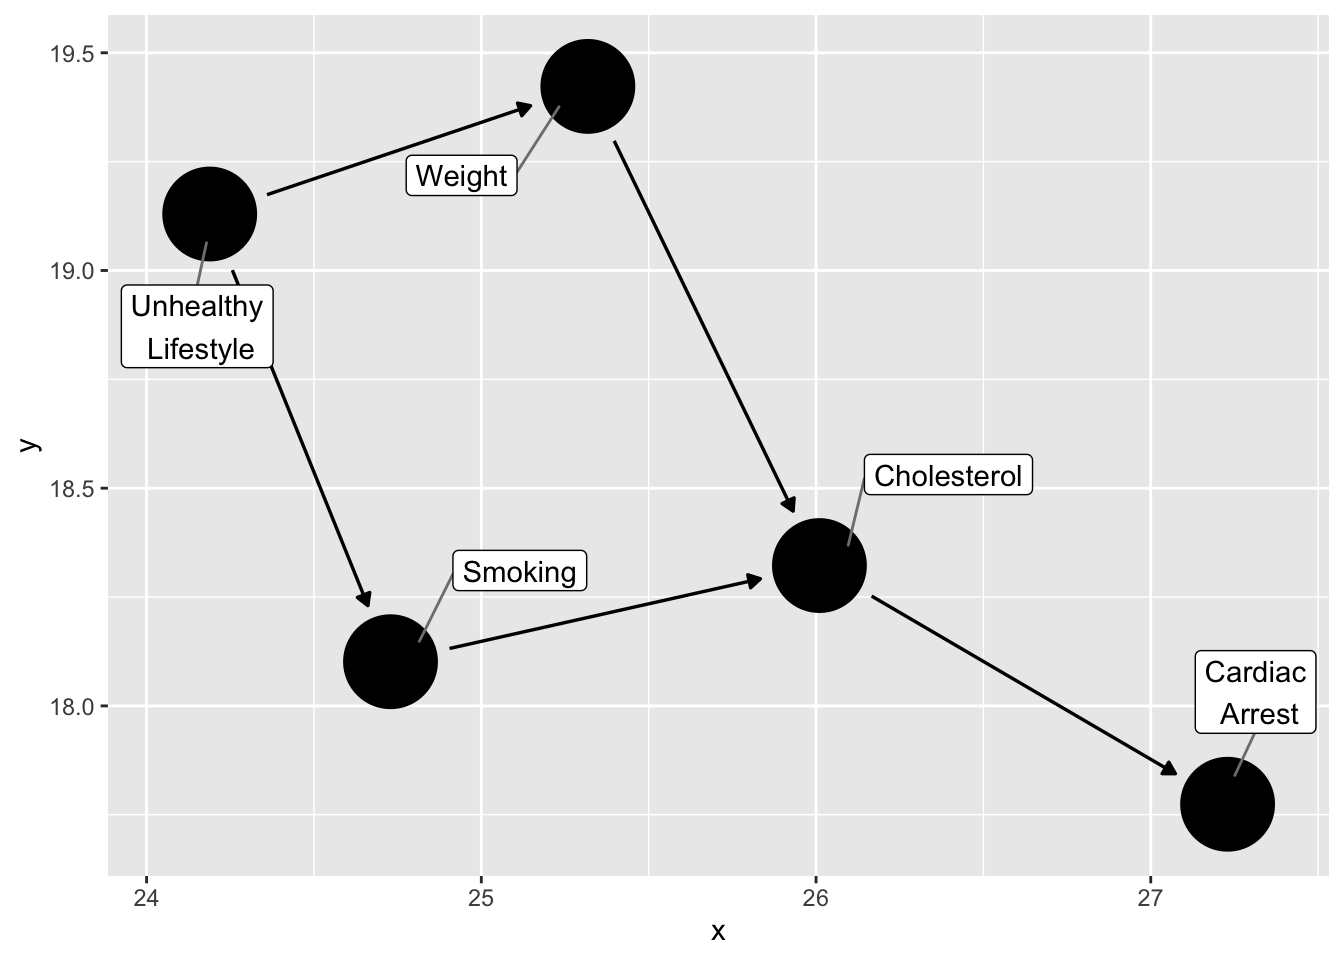
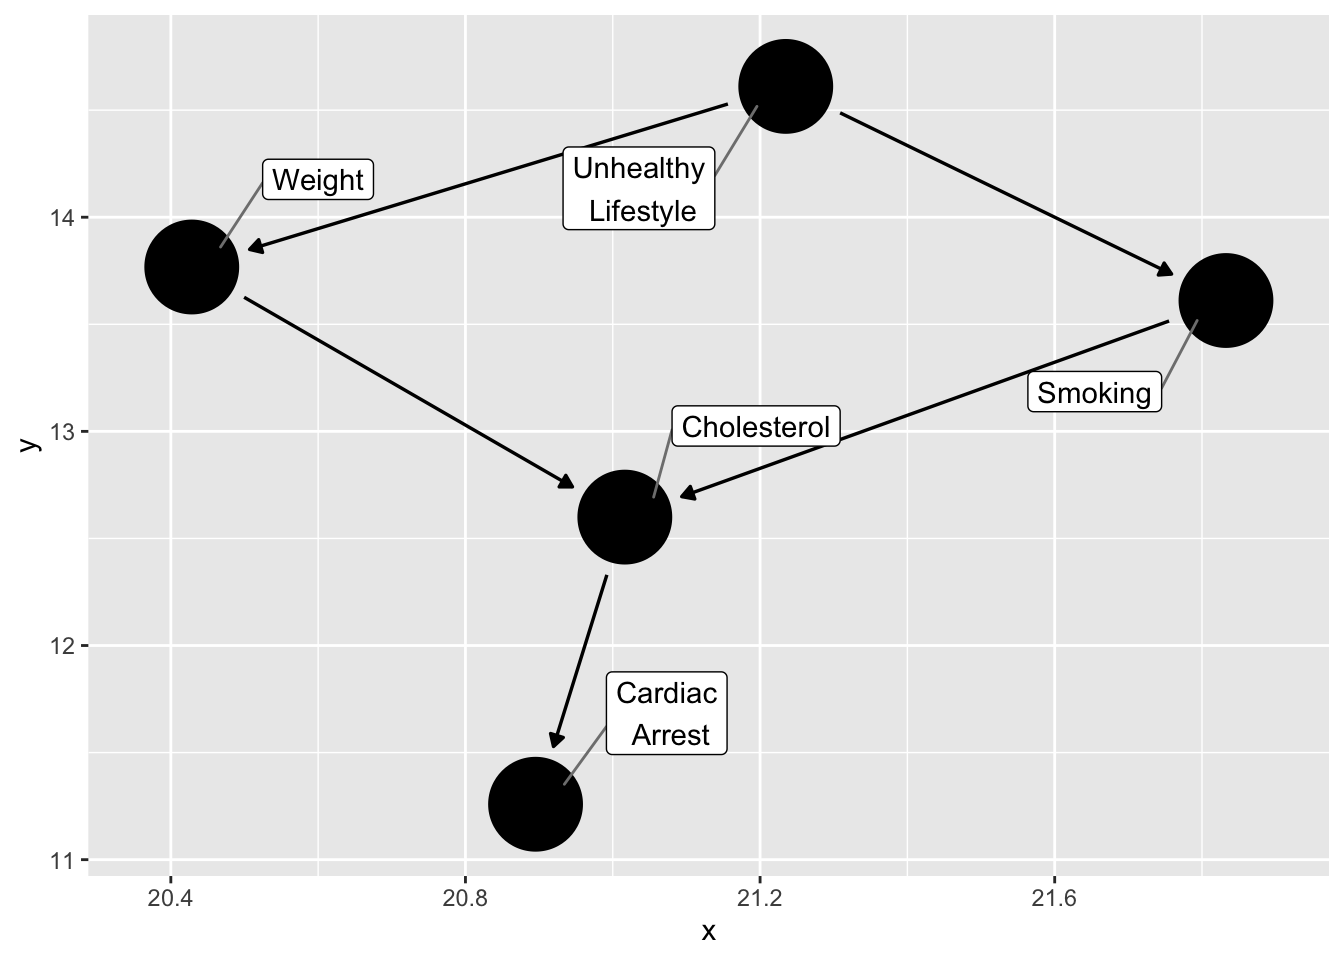
add precisely post

diff --git a/content/post/2019-09-17-tidy-causal-dags-with-ggdag-0-2-0/index.html b/content/post/2019-09-17-tidy-causal-dags-with-ggdag-0-2-0/index.html
@@ -24,9 +24,10 @@ projects:
   - methods
 ---
 
+<script src="/rmarkdown-libs/header-attrs/header-attrs.js"></script>
 
 
-<p>I’m please to announce that <a href="https://ggdag.malco.io/">ggdag 0.2.0</a> is now on CRAN! ggdag links the dagitty package, which contains powerful algorithms for analyzing causal DAGs, with the unlimited flexibility of ggplot2. ggdag coverts dagitty objects to a tidy DAG data structure, which allows you to both analyze your DAG and plot it easily in ggplot2. Let’s look at an example for a causal diagram of the effect of smoking on cardiac arrest.</p>
+<p>I’m pleased to announce that <a href="https://ggdag.malco.io/">ggdag 0.2.0</a> is now on CRAN! ggdag links the dagitty package, which contains powerful algorithms for analyzing causal DAGs, with the unlimited flexibility of ggplot2. ggdag coverts dagitty objects to a tidy DAG data structure, which allows you to both analyze your DAG and plot it easily in ggplot2. Let’s look at an example for a causal diagram of the effect of smoking on cardiac arrest.</p>
 <pre class="r"><code>library(ggdag)</code></pre>
 <pre class="r"><code>smoking_ca_dag &lt;- dagify(cardiacarrest ~ cholesterol,
        cholesterol ~ smoking + weight,
@@ -50,14 +51,14 @@ smoking_ca_dag</code></pre>
 ## # Latent Variable: unhealthy
 ## #
 ## # A tibble: 6 x 9
-##   name          x     y direction to        xend  yend circular label      
-##   &lt;chr&gt;     &lt;dbl&gt; &lt;dbl&gt; &lt;fct&gt;     &lt;chr&gt;    &lt;dbl&gt; &lt;dbl&gt; &lt;lgl&gt;    &lt;chr&gt;      
-## 1 choleste…  26.0  18.3 -&gt;        cardiac…  27.2  17.8 FALSE    Cholesterol
-## 2 smoking    24.7  18.1 -&gt;        cholest…  26.0  18.3 FALSE    Smoking    
-## 3 unhealthy  24.2  19.1 -&gt;        smoking   24.7  18.1 FALSE    &quot;Unhealthy…
-## 4 unhealthy  24.2  19.1 -&gt;        weight    25.3  19.4 FALSE    &quot;Unhealthy…
-## 5 weight     25.3  19.4 -&gt;        cholest…  26.0  18.3 FALSE    Weight     
-## 6 cardiaca…  27.2  17.8 &lt;NA&gt;      &lt;NA&gt;      NA    NA   FALSE    &quot;Cardiac\n…</code></pre>
+##   name           x     y direction to         xend  yend circular label         
+##   &lt;chr&gt;      &lt;dbl&gt; &lt;dbl&gt; &lt;fct&gt;     &lt;chr&gt;     &lt;dbl&gt; &lt;dbl&gt; &lt;lgl&gt;    &lt;chr&gt;         
+## 1 cholester…  21.0  12.6 -&gt;        cardiaca…  20.9  11.3 FALSE    &quot;Cholesterol&quot; 
+## 2 smoking     21.8  13.6 -&gt;        choleste…  21.0  12.6 FALSE    &quot;Smoking&quot;     
+## 3 unhealthy   21.2  14.6 -&gt;        smoking    21.8  13.6 FALSE    &quot;Unhealthy\n …
+## 4 unhealthy   21.2  14.6 -&gt;        weight     20.4  13.8 FALSE    &quot;Unhealthy\n …
+## 5 weight      20.4  13.8 -&gt;        choleste…  21.0  12.6 FALSE    &quot;Weight&quot;      
+## 6 cardiacar…  20.9  11.3 &lt;NA&gt;      &lt;NA&gt;       NA    NA   FALSE    &quot;Cardiac\n Ar…</code></pre>
 <p>The tidy DAG structure looks like a <code>tibble</code>. ggdag 0.2.0 also prints some information about the DAG at the top.</p>
 <pre class="r"><code>ggdag(smoking_ca_dag, text = FALSE, use_labels = &quot;label&quot;)</code></pre>
 <p><img src="/post/2019-09-17-tidy-causal-dags-with-ggdag-0-2-0/index_files/figure-html/unnamed-chunk-4-1.png" width="672" /></p>
@@ -98,11 +99,11 @@ tblgraph_dag</code></pre>
 ## 5 cardiacarrest
 ## #
 ## # Edge Data: 5 x 9
-##    from    to     x     y direction  xend  yend circular label             
-##   &lt;int&gt; &lt;int&gt; &lt;dbl&gt; &lt;dbl&gt; &lt;chr&gt;     &lt;dbl&gt; &lt;dbl&gt; &lt;lgl&gt;    &lt;chr&gt;             
-## 1     1     5  26.0  18.3 -&gt;         27.2  17.8 FALSE    Cholesterol       
-## 2     2     1  24.7  18.1 -&gt;         26.0  18.3 FALSE    Smoking           
-## 3     3     2  24.2  19.1 -&gt;         24.7  18.1 FALSE    &quot;Unhealthy\n Life…
+##    from    to     x     y direction  xend  yend circular label                  
+##   &lt;int&gt; &lt;int&gt; &lt;dbl&gt; &lt;dbl&gt; &lt;chr&gt;     &lt;dbl&gt; &lt;dbl&gt; &lt;lgl&gt;    &lt;chr&gt;                  
+## 1     1     5  21.0  12.6 -&gt;         20.9  11.3 FALSE    &quot;Cholesterol&quot;          
+## 2     2     1  21.8  13.6 -&gt;         21.0  12.6 FALSE    &quot;Smoking&quot;              
+## 3     3     2  21.2  14.6 -&gt;         21.8  13.6 FALSE    &quot;Unhealthy\n Lifestyle&quot;
 ## # … with 2 more rows</code></pre>
 <pre class="r"><code>tblgraph_dag %&gt;% 
   ggraph() +

diff --git a/content/post/2020-05-26-estimating-sample-size-for-precision-precisely-0-1-0/index.en.html b/content/post/2020-05-26-estimating-sample-size-for-precision-precisely-0-1-0/index.en.html
@@ -1,0 +1,59 @@
+---
+title: 'Estimating sample size for precision: precisely 0.1.0'
+author: Malcolm Barrett
+date: '2020-05-26'
+slug: estimating-sample-size-for-precision-precisely-0-1-0
+categories:
+  - r
+  - releases
+tags:
+  - precisely
+subtitle: ''
+summary: ''
+authors: []
+lastmod: '2020-05-26T09:09:31-07:00'
+featured: no
+image:
+  caption: ''
+  focal_point: ''
+  preview_only: yes
+projects: []
+---
+
+<script src="/rmarkdown-libs/header-attrs/header-attrs.js"></script>
+
+
+<p>I’m pleased to announce that <a href="https://precisely.malco.io/">precisely 0.1.0</a> is now on CRAN! precisely is a study planning tool to calculate sample size based on precision rather than power. Power calculations focus on whether or not an estimate will be statistically significant; calculations of precision are based on the same principles as power calculation but turn the focus to the width of the confidence interval. precisely currently supports sample size calculations for risk differences, rate differences, risk ratios, rate ratios, and odds ratios.</p>
+<p>These tools implement the work of <a href="https://www.ncbi.nlm.nih.gov/pubmed/29912015">Rothman and Greenland</a>. Here’s an example from their paper: We want to estimate the sample size required for a study where we are estimating a risk difference. We want the precision (here, the width of the confidence interval) to be .08. We’ll assume that the exposed participants have a disease risk of 0.4 while the unexposed have a risk of 0.3, for a risk difference of 0.1. Setting the ratio of unexposed participants to the unexposed to 3 (e.g., there are 3x more unexposed participants), we need 2097 participants to estimate a confidence interval of this precision.</p>
+<pre class="r"><code># install.packages(&quot;precisely&quot;)
+library(precisely)
+
+n_risk_difference(
+  precision = .08,
+  exposed = .4,
+  unexposed = .3,
+  group_ratio = 3,
+  ci = .90
+)</code></pre>
+<pre><code>## # A tibble: 1 x 9
+##   n_exposed n_unexposed n_total risk_difference precision exposed unexposed
+##       &lt;dbl&gt;       &lt;dbl&gt;   &lt;dbl&gt;           &lt;dbl&gt;     &lt;dbl&gt;   &lt;dbl&gt;     &lt;dbl&gt;
+## 1      524.       1573.   2097.             0.1      0.08     0.4       0.3
+## # … with 2 more variables: group_ratio &lt;dbl&gt;, ci &lt;dbl&gt;</code></pre>
+<p>precisely also includes functions for making sample size figures, functions for estimating precision from the sample size, and more. See the <a href="https://precisely.malco.io/articles/introduction-to-precisely.html">introductory vignette</a> to learn more about what you can do.</p>
+<pre class="r"><code>map_precisely(
+  precision_odds_ratio,
+  n_cases = seq(from = 500, to = 1000, by = 10),
+  exposed_cases = .6,
+  exposed_controls = .4,
+  group_ratio = 1:4
+) %&gt;%
+  dplyr::group_by(&quot;Control/Case Ratio&quot; = factor(group_ratio)) %&gt;%
+  plot_precision() +
+  theme_precisely()</code></pre>
+<p><img src="/post/2020-05-26-estimating-sample-size-for-precision-precisely-0-1-0/index.en_files/figure-html/unnamed-chunk-2-1.png" width="672" /></p>
+<p>This package includes a Shiny app to help with sample size calculations, which you can start locally with <code>launch_precisely_app()</code>. You can also find an online version at <a href="https://malcolmbarrett.shinyapps.io/precisely/">malcolmbarrett.shinyapps.io/precisely</a>.</p>
+<div id="making-contributions-to-precisely" class="section level2">
+<h2>Making contributions to precisely</h2>
+<p>precisely has been available on GitHub for some time. If you already use precisely, there isn’t much new in the official CRAN release except some polishing and minor bug fixes. Over the past couple of years, I have received several requests for sample size calculations for different effect types and study designs. While I haven’t had time to implement these, this is an excellent opportunity to contribute to the package! Please feel free to make pull requests to the <a href="https://github.com/malcolmbarrett/precisely/">GitHub repository</a> or suggest calculations that precisely could make in an issue (preferably with some code to do the calculation or a clear reference that explains how).</p>
+</div>
